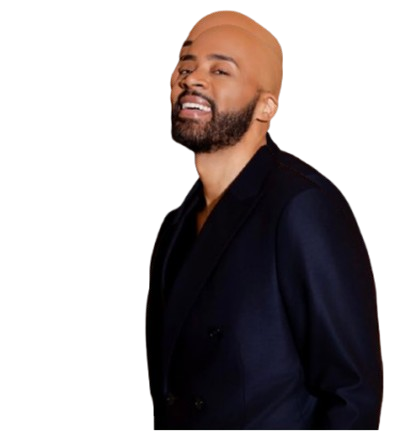
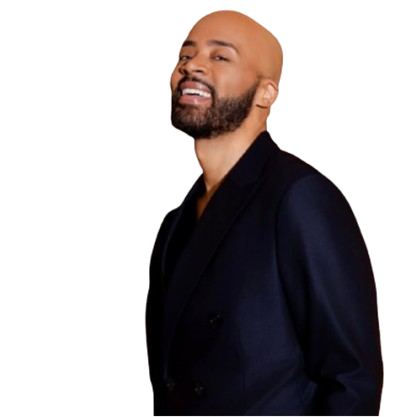
Hero text 30px lower, new sidebar portrait, TikTok embed fixes
Made-with: Cursor

diff --git a/src/components/HeroSection.tsx b/src/components/HeroSection.tsx
@@ -17,7 +17,7 @@ function TweetEmbed() {
   }, [])
 
   return (
-    <div className="hidden lg:block w-full max-w-[400px] [&_.twitter-tweet]:!max-w-full">
+    <div className="hidden lg:block absolute left-6 bottom-[calc(4rem+120px)] w-full max-w-[400px] [&_.twitter-tweet]:!max-w-full">
       <blockquote className="twitter-tweet" data-dnt="true" data-theme="dark">
         <a href={TWEET_URL}>Tweet from @thekempire</a>
       </blockquote>
@@ -43,14 +43,13 @@ export function HeroSection() {
       </div>
 
       <motion.div
-        className="relative z-10 max-w-[1440px] mx-auto px-6 w-full flex flex-col lg:flex-row items-end justify-between gap-8 pb-16"
+        className="relative z-10 max-w-[1440px] mx-auto px-6 w-full h-full flex flex-col items-center justify-end pb-16"
         initial={false}
         animate={{ opacity: 1, y: 0 }}
         transition={{ duration: 0.8, ease: [0.25, 0.46, 0.45, 0.94] }}
       >
-        <TweetEmbed />
-        <div className="max-w-2xl flex flex-col items-end text-right w-full lg:w-auto">
-          <div className="flex items-center gap-3 mb-6">
+        <div className="absolute right-6 top-[calc(50%+30px)] -translate-y-1/2 flex flex-col items-end text-right w-full max-w-2xl lg:max-w-xl">
+          <div className="flex items-center justify-end gap-3 mb-6">
             <Image
               src="/icon.png"
               alt="KEMPIRE"
@@ -59,28 +58,38 @@ export function HeroSection() {
               className="w-12 h-12 object-contain"
             />
           </div>
-
-          <p className="font-display text-3xl md:text-4xl lg:text-5xl font-normal tracking-wide leading-[1.2] mb-6 text-balance hero-text-gradient uppercase">
+          <p className="font-display text-3xl md:text-4xl lg:text-5xl font-normal tracking-wide leading-[1.2] text-balance hero-text-gradient uppercase">
             Your #1 source for Pop Culture News in Music, Entertainment, Reality TV and more.
           </p>
+        </div>
 
-          <div className="flex items-center justify-end gap-6 mt-8">
-            <button className="bg-kempire-gold hover:bg-white hover:text-kempire-dark text-kempire-dark px-8 py-4 font-bold uppercase tracking-wider text-sm transition flex items-center gap-2 rounded-sm">
-              <i className="ph-fill ph-play" /> Watch Now
-            </button>
-            <a href="#" className="flex items-center gap-3 text-white hover:text-zinc-300 transition group/sub">
-              <div className="w-10 h-10 rounded-full bg-white/10 flex items-center justify-center group-hover/sub:bg-red-600 transition">
-                <i className="ph-fill ph-bell text-lg" />
-              </div>
-              <span className="font-semibold text-sm uppercase tracking-wide">Subscribe on YouTube</span>
-            </a>
-            <a href="#" className="flex items-center gap-3 text-white hover:text-zinc-300 transition group/sub">
-              <div className="w-10 h-10 rounded-full bg-white/10 flex items-center justify-center group-hover/sub:bg-[#1DA1F2] transition">
-                <i className="ph-fill ph-twitter-logo text-lg" />
-              </div>
-              <span className="font-semibold text-sm uppercase tracking-wide">Follow on Twitter</span>
-            </a>
-          </div>
+        <TweetEmbed />
+
+        <div className="flex items-center justify-center gap-[50px] shrink-0 w-full">
+          <a href="#" className="flex items-center gap-3 text-white hover:text-zinc-300 transition group/sub shrink-0">
+            <div className="w-10 h-10 rounded-full bg-white/10 flex items-center justify-center group-hover/sub:bg-red-600 transition">
+              <i className="ph-fill ph-bell text-lg" />
+            </div>
+            <span className="font-semibold text-sm uppercase tracking-wide">Subscribe on YouTube</span>
+          </a>
+          <a href="#" className="flex items-center gap-3 text-white hover:text-zinc-300 transition group/sub shrink-0">
+            <div className="w-10 h-10 rounded-full bg-white/10 flex items-center justify-center group-hover/sub:bg-[#1DA1F2] transition">
+              <i className="ph-fill ph-twitter-logo text-lg" />
+            </div>
+            <span className="font-semibold text-sm uppercase tracking-wide">Follow on Twitter</span>
+          </a>
+          <a href="#" className="flex items-center gap-3 text-white hover:text-zinc-300 transition group/sub shrink-0">
+            <div className="w-10 h-10 rounded-full bg-white/10 flex items-center justify-center group-hover/sub:bg-black transition">
+              <i className="ph-fill ph-tiktok-logo text-lg" />
+            </div>
+            <span className="font-semibold text-sm uppercase tracking-wide">Follow on TikTok</span>
+          </a>
+          <a href="#" className="flex items-center gap-3 text-white hover:text-zinc-300 transition group/sub shrink-0">
+            <div className="w-10 h-10 rounded-full bg-white/10 flex items-center justify-center group-hover/sub:bg-[#E4405F] transition">
+              <i className="ph-fill ph-instagram-logo text-lg" />
+            </div>
+            <span className="font-semibold text-sm uppercase tracking-wide">Follow on Instagram</span>
+          </a>
         </div>
       </motion.div>
     </section>

diff --git a/src/components/Sidebar.tsx b/src/components/Sidebar.tsx
@@ -88,38 +88,40 @@ export function Sidebar() {
           </nav>
 
           {/* Social & Search */}
-          <div className="relative p-4 border-t border-white/10 space-y-4">
-            <div className="absolute -top-4 left-0 right-0 flex justify-center pointer-events-none z-10">
+          <div className="flex flex-col flex-1 min-h-0 p-4 border-t border-white/10">
+            <div className="flex justify-center shrink-0">
               <Image
-                src="/sidebar-portrait.png"
+                src="/sidebar-portrait.png?v=2"
                 alt=""
-                width={194}
+                width={250}
                 height={250}
-                className="h-[250px] min-h-[250px] w-auto object-contain"
+                className="h-[250px] w-auto object-contain object-bottom"
                 aria-hidden
               />
             </div>
-            <div className="flex items-center gap-3 pt-[260px]">
-              <a href="#" className="w-10 h-10 rounded-lg flex items-center justify-center hover:bg-white/10 transition text-white" aria-label="YouTube">
-                <i className="ph-fill ph-youtube-logo text-xl" />
-              </a>
-              <a href="#" className="w-10 h-10 rounded-lg flex items-center justify-center hover:bg-white/10 transition text-white" aria-label="TikTok">
-                <i className="ph-fill ph-tiktok-logo text-xl" />
-              </a>
-              <a href="#" className="w-10 h-10 rounded-lg flex items-center justify-center hover:bg-white/10 transition text-white" aria-label="Twitter">
-                <i className="ph-fill ph-twitter-logo text-xl" />
-              </a>
-              <a href="#" className="w-10 h-10 rounded-lg flex items-center justify-center hover:bg-white/10 transition text-white" aria-label="Instagram">
-                <i className="ph-fill ph-instagram-logo text-xl" />
-              </a>
+            <div className="flex flex-col space-y-4 mt-4">
+              <div className="flex items-center gap-3">
+                <a href="#" className="w-10 h-10 rounded-lg flex items-center justify-center hover:bg-white/10 transition text-white" aria-label="YouTube">
+                  <i className="ph-fill ph-youtube-logo text-xl" />
+                </a>
+                <a href="#" className="w-10 h-10 rounded-lg flex items-center justify-center hover:bg-white/10 transition text-white" aria-label="TikTok">
+                  <i className="ph-fill ph-tiktok-logo text-xl" />
+                </a>
+                <a href="#" className="w-10 h-10 rounded-lg flex items-center justify-center hover:bg-white/10 transition text-white" aria-label="Twitter">
+                  <i className="ph-fill ph-twitter-logo text-xl" />
+                </a>
+                <a href="#" className="w-10 h-10 rounded-lg flex items-center justify-center hover:bg-white/10 transition text-white" aria-label="Instagram">
+                  <i className="ph-fill ph-instagram-logo text-xl" />
+                </a>
+              </div>
+              <button
+                className="w-full flex items-center gap-3 px-4 py-3 rounded-lg hover:bg-white/10 transition font-medium text-sm text-white"
+                aria-label="Search"
+              >
+                <i className="ph ph-magnifying-glass text-xl" />
+                Search
+              </button>
             </div>
-            <button
-              className="w-full flex items-center gap-3 px-4 py-3 rounded-lg hover:bg-white/10 transition font-medium text-sm text-white"
-              aria-label="Search"
-            >
-              <i className="ph ph-magnifying-glass text-xl" />
-              Search
-            </button>
           </div>
         </div>
       </aside>

diff --git a/src/components/TikTokSection.tsx b/src/components/TikTokSection.tsx
@@ -1,7 +1,6 @@
 'use client'
 
 import { useEffect, useState } from 'react'
-import { StaggerContainer, StaggerItem } from './ScrollReveal'
 
 const TIKTOK_USERNAME = 'thekempire'
 
@@ -46,14 +45,18 @@ export function TikTokSection() {
       .finally(() => setLoading(false))
   }, [])
 
-  // Load TikTok embed script when videos are rendered (script processes blockquotes)
+  // Load TikTok embed script when videos are rendered - script processes blockquotes on load
   useEffect(() => {
     if (videoIds.length === 0) return
     if (document.querySelector('script[src="https://www.tiktok.com/embed.js"]')) return
-    const script = document.createElement('script')
-    script.src = 'https://www.tiktok.com/embed.js'
-    script.async = true
-    document.body.appendChild(script)
+    // Small delay to ensure blockquotes are in the DOM and painted before script runs
+    const id = setTimeout(() => {
+      const script = document.createElement('script')
+      script.src = 'https://www.tiktok.com/embed.js'
+      script.async = true
+      document.body.appendChild(script)
+    }, 100)
+    return () => clearTimeout(id)
   }, [videoIds])
 
   return (
@@ -78,13 +81,11 @@ export function TikTokSection() {
             ))}
           </div>
         ) : videoIds.length > 0 ? (
-          <StaggerContainer className="grid grid-cols-1 sm:grid-cols-2 lg:grid-cols-4 gap-8" staggerDelay={0.15}>
+          <div className="grid grid-cols-1 sm:grid-cols-2 lg:grid-cols-4 gap-8">
             {videoIds.map((id) => (
-              <StaggerItem key={id}>
-                <TikTokEmbed videoId={id} />
-              </StaggerItem>
+              <TikTokEmbed key={id} videoId={id} />
             ))}
-          </StaggerContainer>
+          </div>
         ) : (
           <div className="text-center py-12">
             <p className="text-zinc-500 mb-4">Unable to load TikTok videos.</p>
